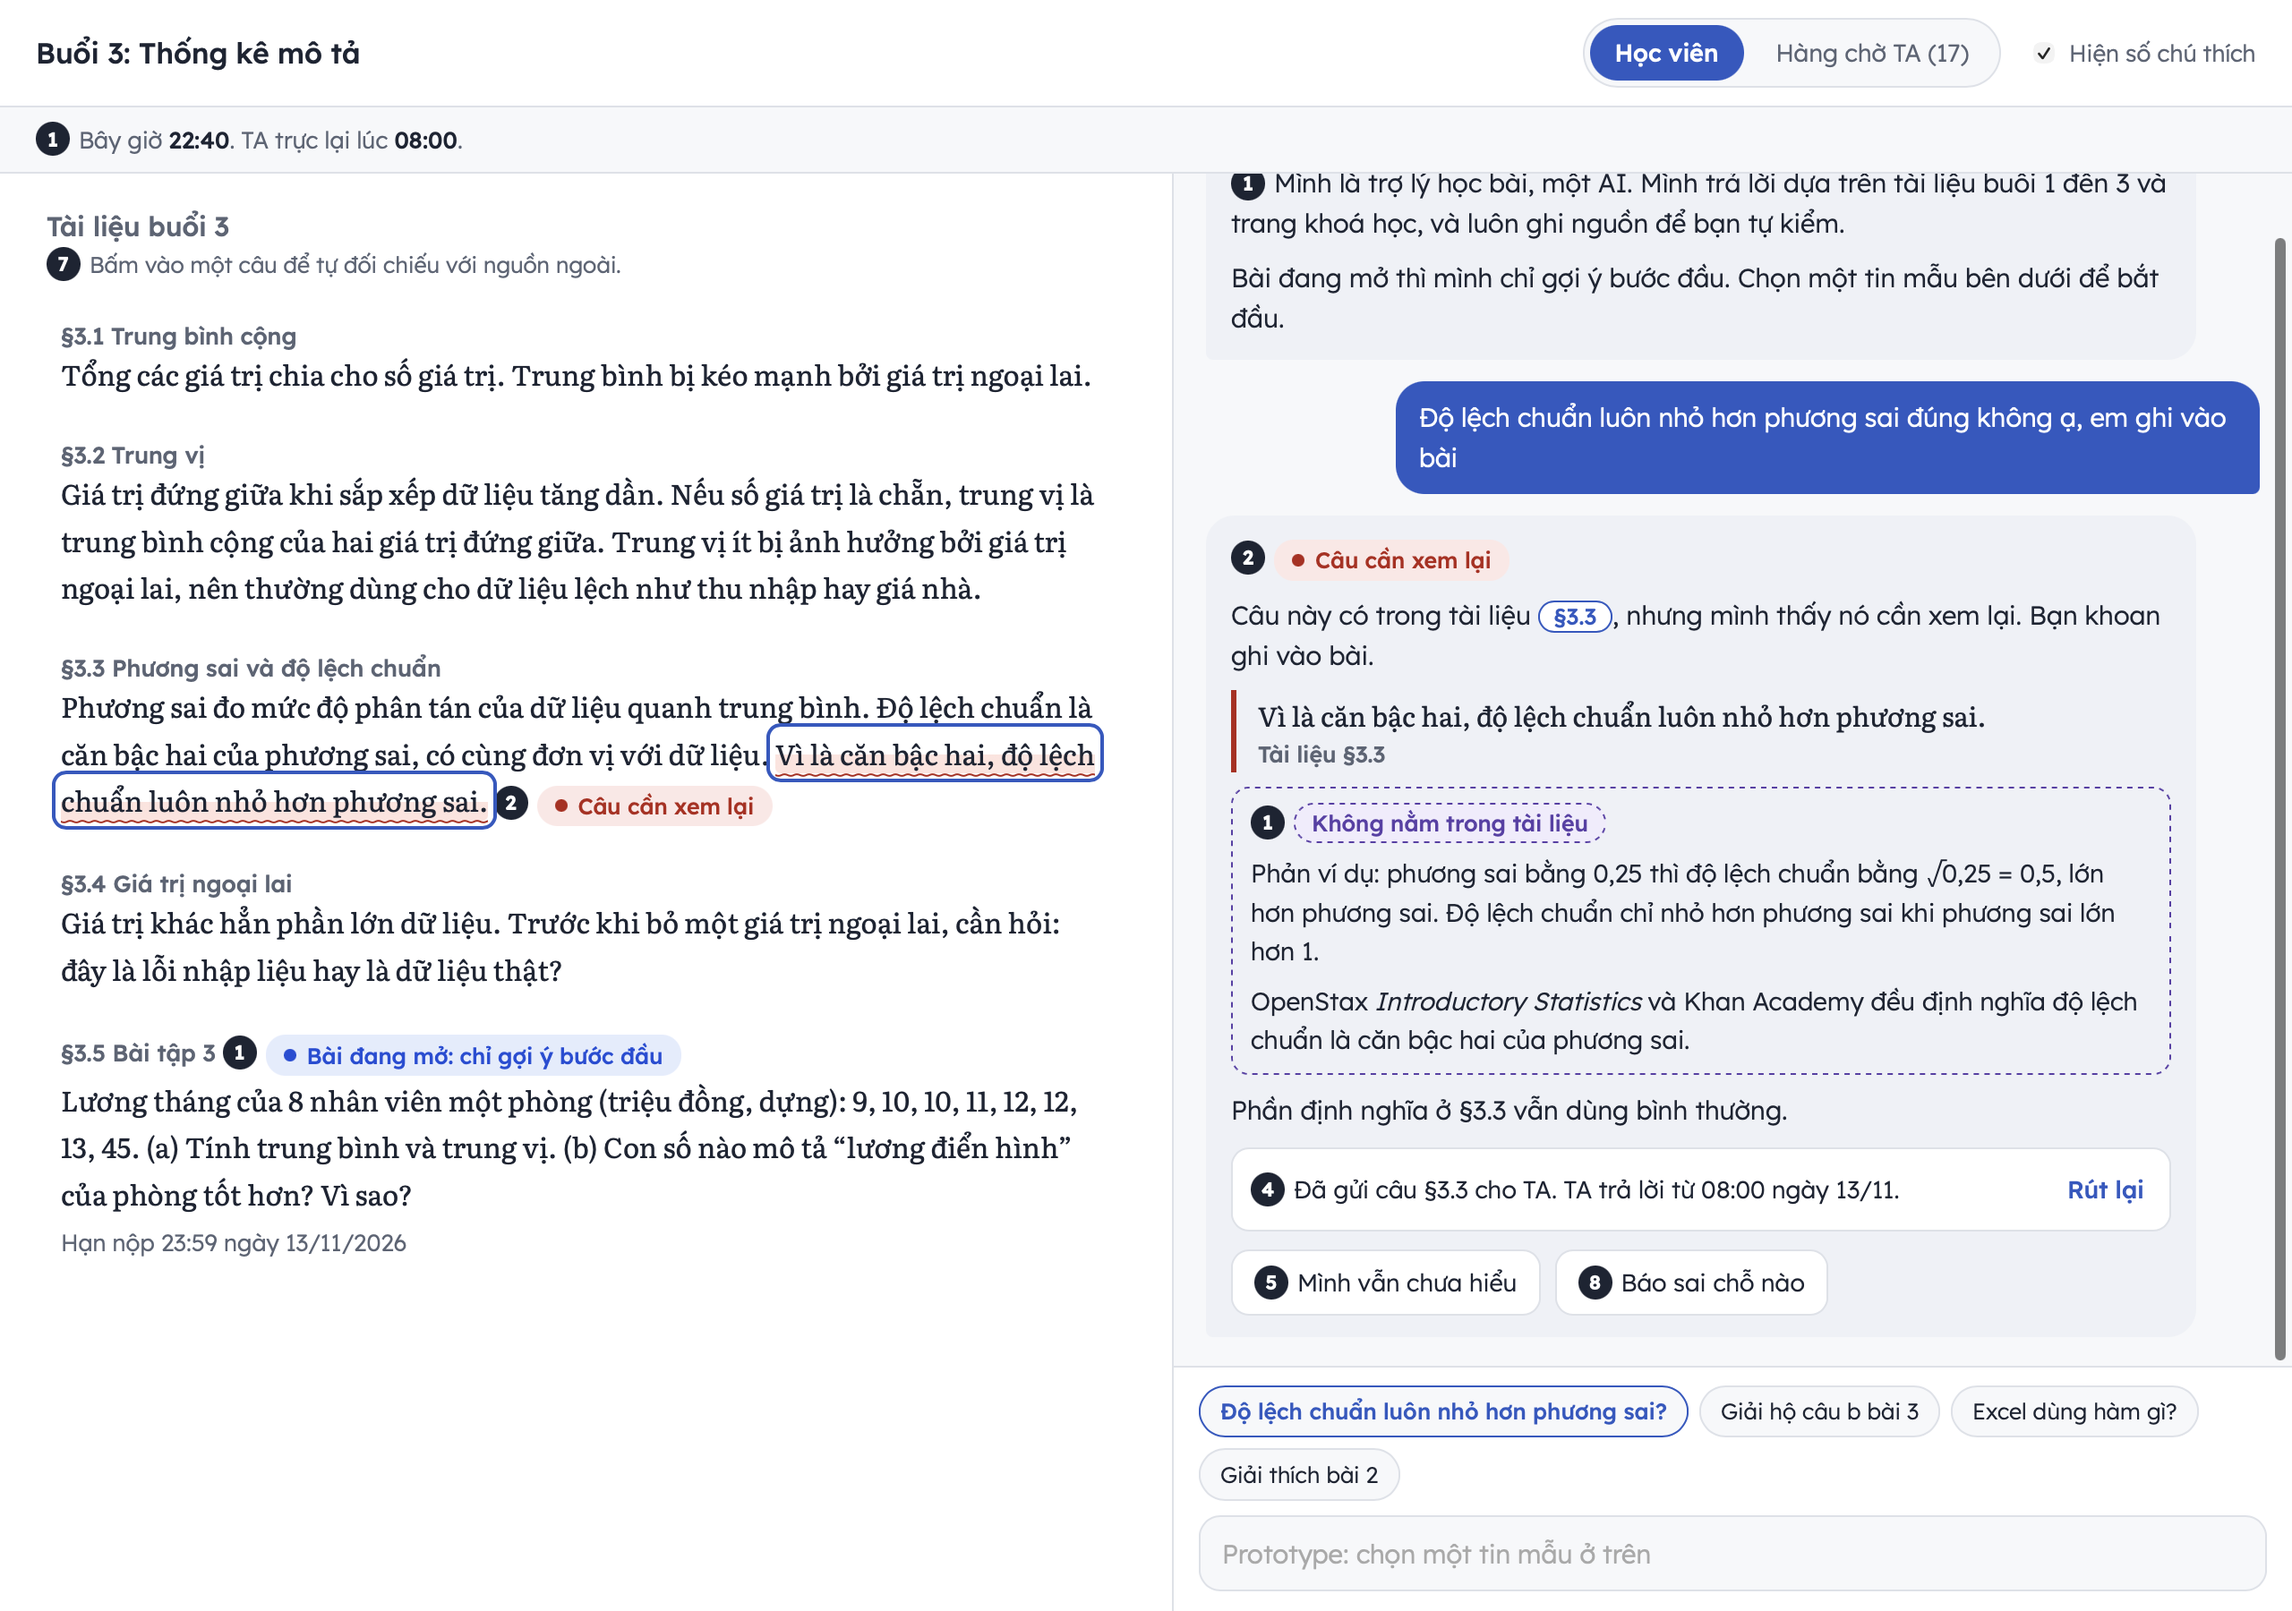
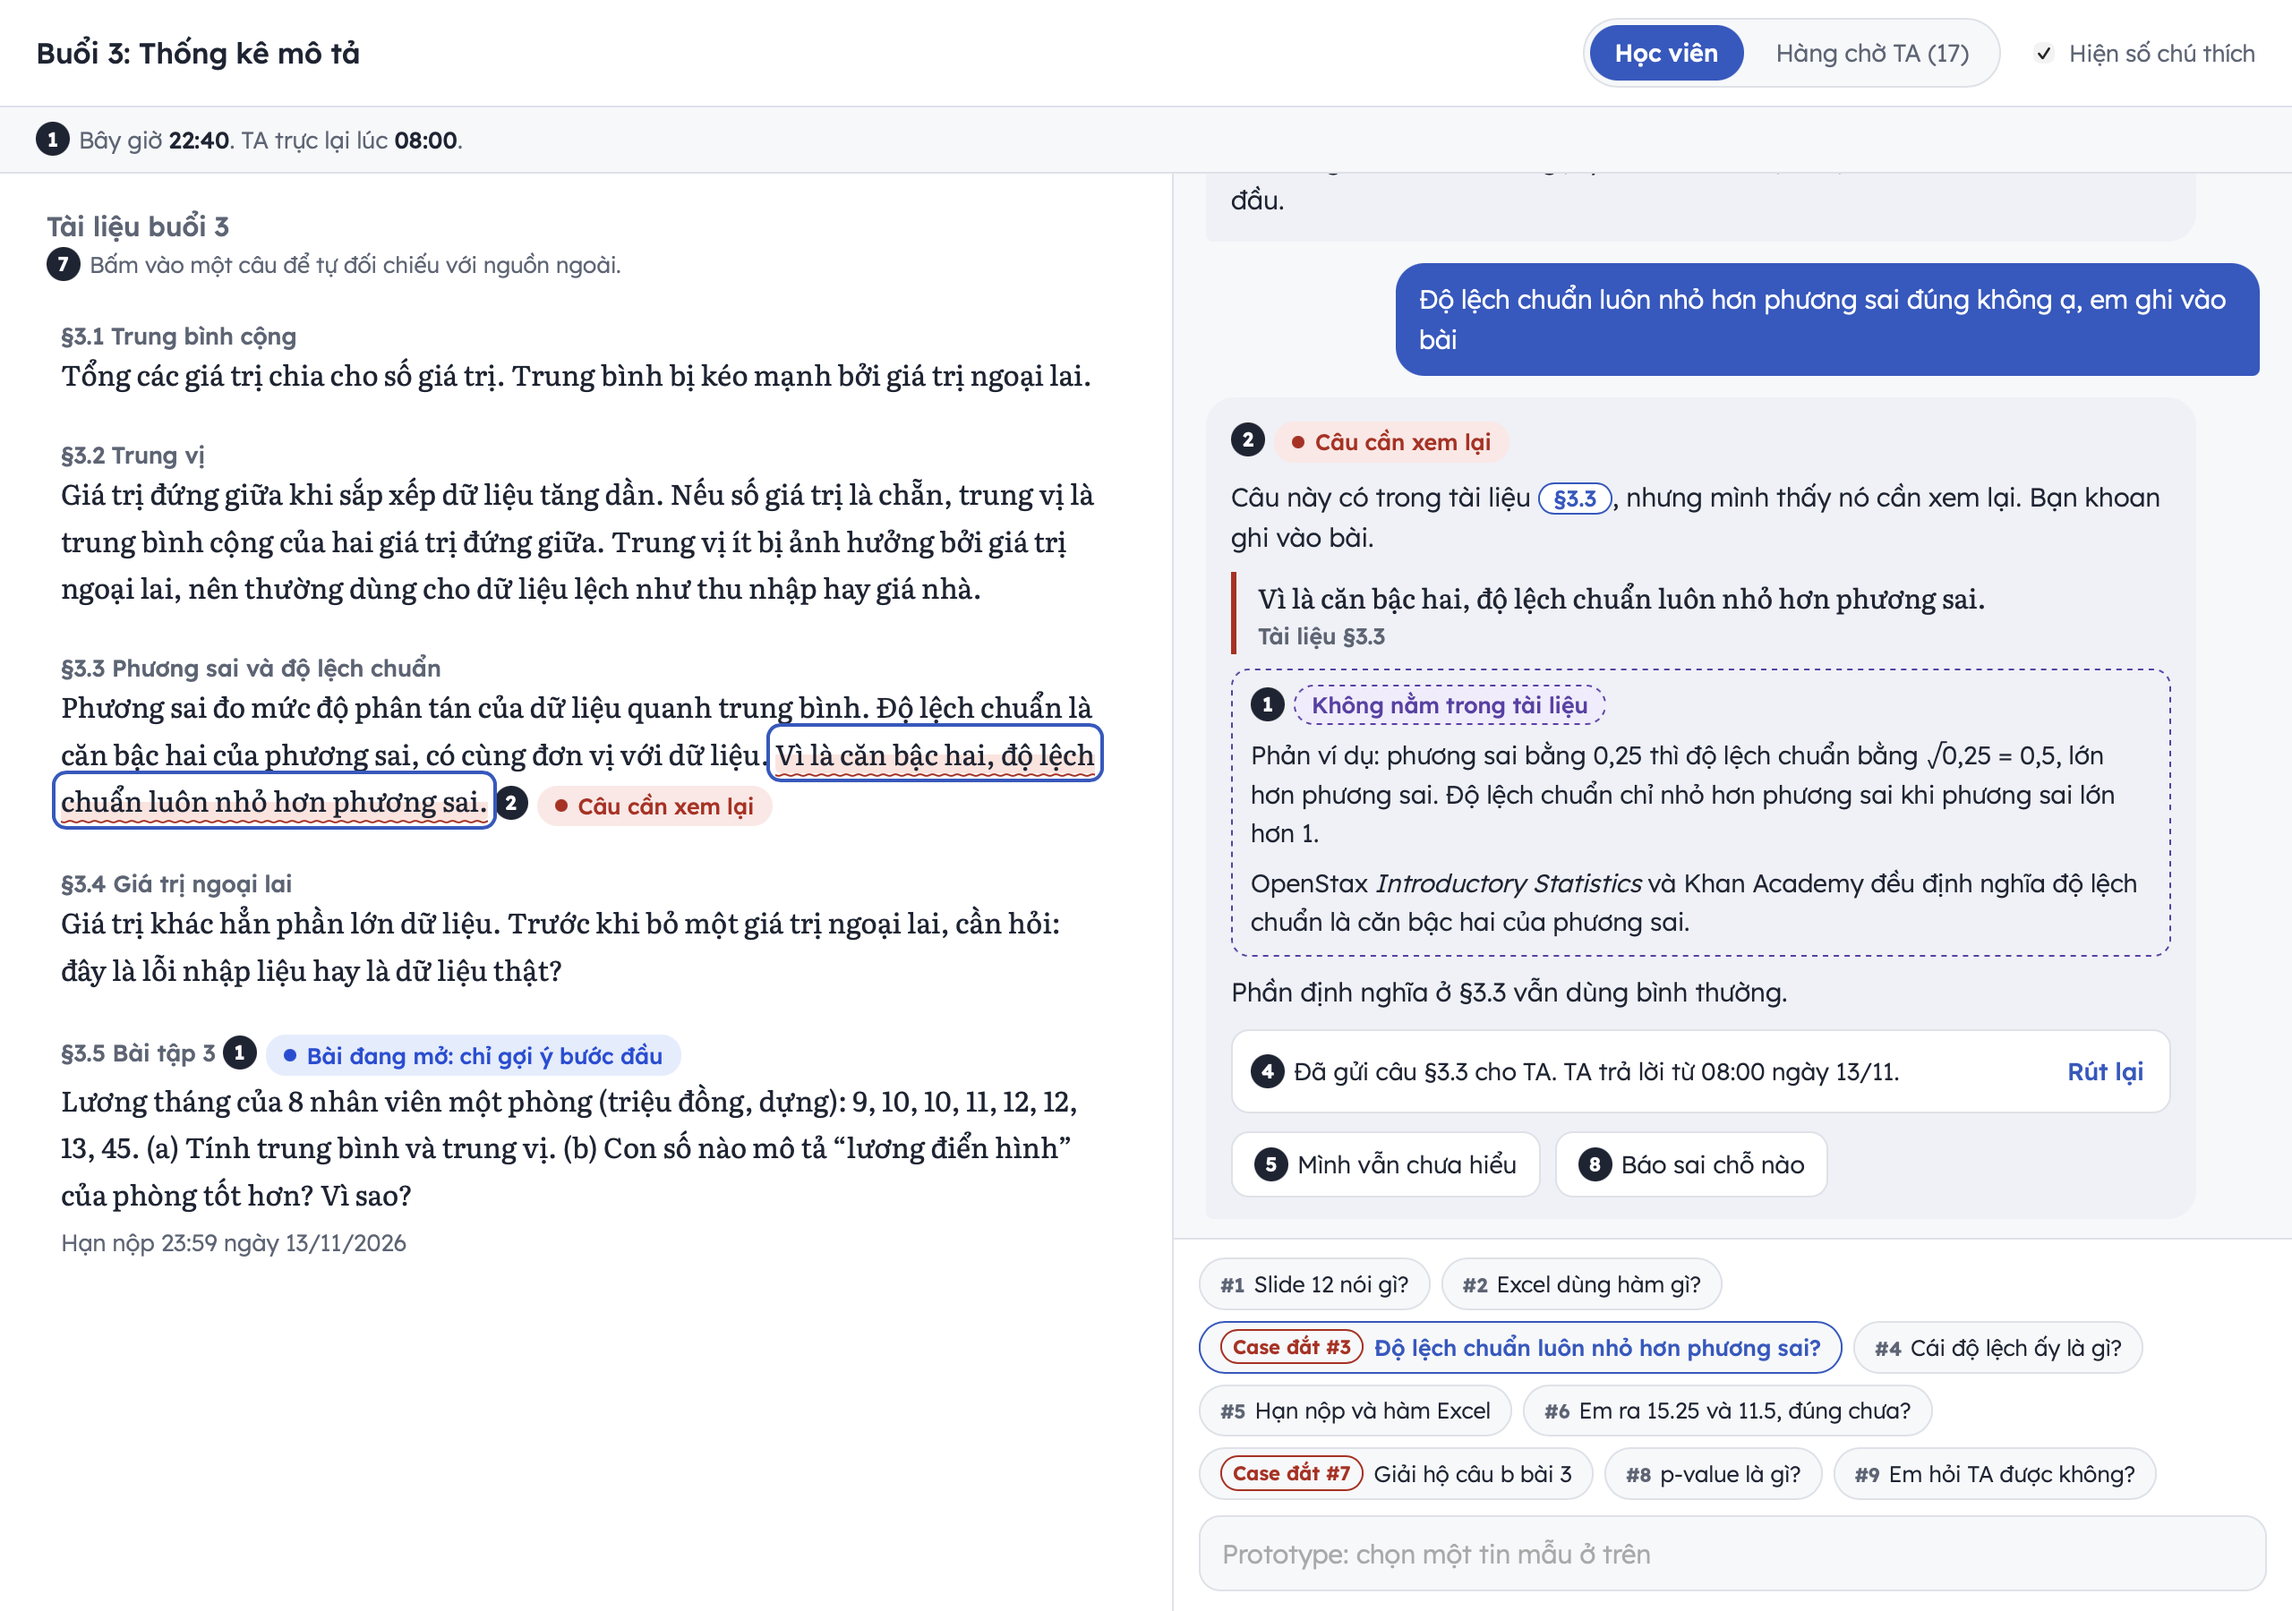
Màn TA chia ba cột, chụp lại ảnh prototype
- Tách bản nháp FAQ khỏi nội dung phiếu: nhóm phiếu | nội dung phiếu | bản nháp FAQ.
  Màn dưới 1100px thì bản nháp xuống dưới.
- spec §4: người duyệt đọc phiếu gốc ngay cạnh bản nháp.
- Chụp lại screen-1 (đủ 13 tin mẫu, nhãn case đắt) và screen-2 (ba cột).

diff --git a/prototype/index.html b/prototype/index.html
@@ -99,7 +99,7 @@ button,input{font:inherit;color:inherit}
 .ticket .new{grid-column:1/-1;margin:0;color:var(--accent);font-weight:500}
 
 /* TA view */
-.ta{display:grid;grid-template-columns:minmax(0,.9fr) minmax(0,1.1fr);gap:20px;padding:20px;max-width:1240px}
+.ta{display:grid;grid-template-columns:minmax(0,.8fr) minmax(0,1.1fr) minmax(0,1fr);gap:20px;padding:20px;max-width:1480px}
 .panel{background:var(--surface);border:1px solid var(--line);border-radius:14px;padding:16px 18px}
 .panel h2{font-size:16px;font-weight:500;margin:0}
 .panel>.muted{margin:2px 0 6px;font-size:13px}
@@ -108,7 +108,7 @@ button,input{font:inherit;color:inherit}
 .group .gt{font-weight:500}
 .group .tag{justify-self:start}
 .group .cnt{grid-column:2;grid-row:1/3;align-self:center;font-weight:500;white-space:nowrap}
-.tickets h3{font-size:14.5px;font-weight:500;margin:0 0 4px}
+.tickets h2{margin:0 0 4px}
 .draft{border:1px solid var(--line);border-radius:10px;padding:10px 12px;margin-top:10px}
 .draft h3{font-size:14.5px;font-weight:500;margin:0 0 4px}
 .serif{font-family:var(--serif);font-size:15px;line-height:1.6}
@@ -124,6 +124,7 @@ dialog label{display:flex;gap:8px;align-items:flex-start;font-size:14px;margin-t
 .legend ol{list-style:none;padding:0;margin:10px 0 0;display:grid;gap:6px}
 .legend li{display:flex;gap:4px;align-items:baseline}
 
+@media (max-width:1100px){.ta{grid-template-columns:minmax(0,.9fr) minmax(0,1.1fr)}.ta>:last-child{grid-column:1/-1}} /* màn vừa: bản nháp FAQ xuống dưới */
 @media (max-width:860px){
   .split,.ta{grid-template-columns:1fr;height:auto}
   .doc{border-right:0;border-bottom:1px solid var(--line);overflow:visible}
@@ -201,7 +202,9 @@ dialog label{display:flex;gap:8px;align-items:flex-start;font-size:14px;margin-t
   </section>
   <section class="panel">
     <div class="tickets" id="tickets"></div>
-    <h2 style="margin-top:20px">Bản nháp FAQ</h2>
+  </section>
+  <section class="panel">
+    <h2>Bản nháp FAQ</h2>
     <p class="muted">Trợ lý tự soạn nháp. Chỉ TA mới đăng được cho cả lớp.</p>
     <article class="draft" id="d1">
       <h3>Đính chính §3.3</h3>
@@ -449,7 +452,7 @@ function renderTA(){
   $('#groups').innerHTML=keys.map(k=>`<button class="group ${k===cur?'on':''}" data-act="group" data-g="${k}">
     <span class="gt">${G[k].title}</span><span class="tag ${G[k].tag[0]}">${G[k].tag[1]}</span><span class="cnt">${count(k)} học viên</span></button>`).join('');
   const list=[...(sent[cur]?[{...MINE[sent[cur]],t:'22:40',mine:1}]:[]),...G[cur].tickets];
-  $('#tickets').innerHTML=`<h3>${G[cur].title}</h3>${G[cur].done?`<p style="margin:0 0 6px"><span class="tag t-ok">Đã trả lời ${count(cur)} học viên bằng đính chính</span></p>`:''}`+list.map(t=>`<dl class="ticket">${t.mine?'<p class="new">Vừa gửi từ phiên học viên đang demo</p>':''}
+  $('#tickets').innerHTML=`<h2>${G[cur].title}</h2>${G[cur].done?`<p style="margin:0 0 6px"><span class="tag t-ok">Đã trả lời ${count(cur)} học viên bằng đính chính</span></p>`:''}`+list.map(t=>`<dl class="ticket">${t.mine?'<p class="new">Vừa gửi từ phiên học viên đang demo</p>':''}
     <dt>Lúc</dt><dd>${t.t}</dd><dt>Câu hỏi gốc</dt><dd>${t.q}</dd><dt>Trợ lý đã nói</dt><dd>${t.said}</dd><dt>Mục</dt><dd>${t.muc}</dd></dl>`).join('');
   $('#tabTA').textContent=`Hàng chờ TA (${Object.keys(G).reduce((a,k)=>a+(G[k].done?0:count(k)),0)})`;
 }

diff --git a/spec.md b/spec.md
@@ -219,7 +219,7 @@ Lý do từng mức ghi theo cost-of-error.
 
 **Với tool cần người duyệt (`dang_FAQ`)**
 - **Ai duyệt:** TA.
-- **Người duyệt thấy gì:** đúng nội dung cả lớp sẽ đọc, các phiếu gốc và mã mục. Với bản đính chính tài liệu, phải tích ô "Giảng viên đã xác nhận đính chính này" thì nút "Đăng cho cả lớp" mới bấm được.
+- **Người duyệt thấy gì:** đúng nội dung cả lớp sẽ đọc, các phiếu gốc và mã mục. Màn TA chia ba cột: nhóm phiếu, nội dung phiếu, bản nháp FAQ. TA đọc phiếu gốc ngay cạnh bản nháp mình sắp duyệt, không phải cuộn qua lại. Với bản đính chính tài liệu, phải tích ô "Giảng viên đã xác nhận đính chính này" thì nút "Đăng cho cả lớp" mới bấm được.
 - **Quá hạn thì sao:** bản nháp nằm yên trong hàng chờ, không có gì được đăng. Đây là hướng an toàn.
 
 **Tool khó xếp nhất: `goi_y_bai_tap` (bản gốc của track)**
